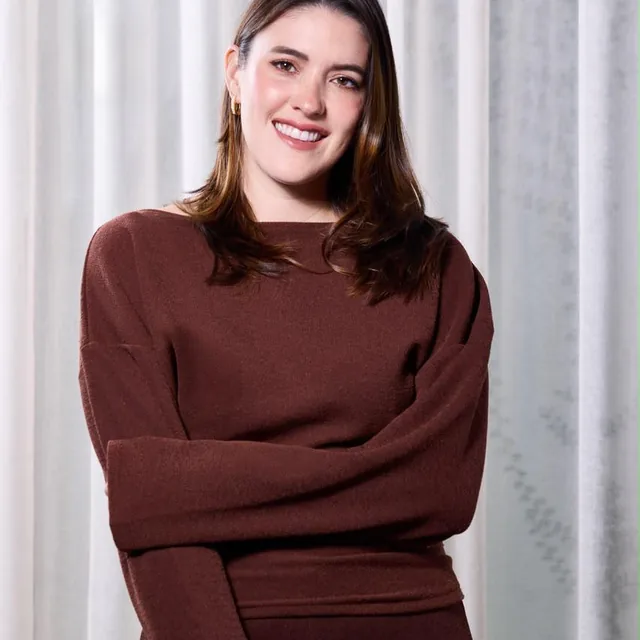
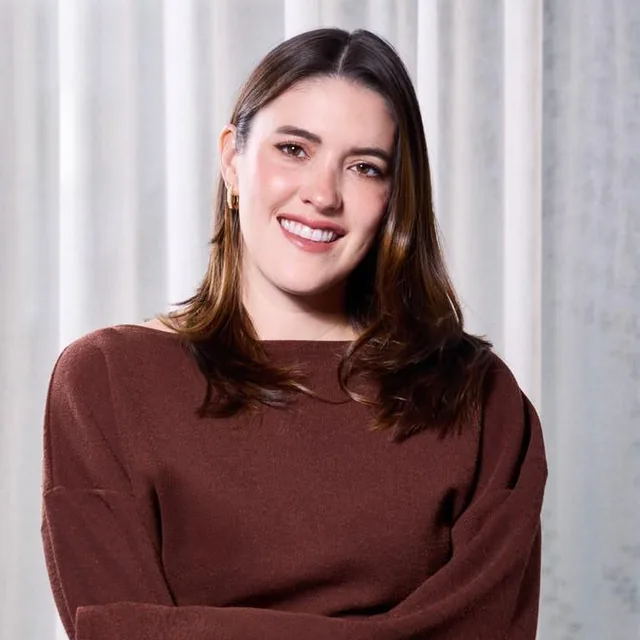
Video lightbox con play centrado + re-encuadre facial de fotos de instructores

diff --git a/components/VideoLightbox.tsx b/components/VideoLightbox.tsx
@@ -1,0 +1,104 @@
+"use client";
+
+import Image from "next/image";
+import { useRef } from "react";
+import { VIDEO_PRESENTACION_URL } from "@/lib/media";
+import poster from "@/public/video-poster.webp";
+
+/**
+ * Miniatura con play grande → modal (<dialog> nativo) con el video
+ * en grande, overlay oscuro, controles, cierre con ×, Esc y click fuera.
+ */
+export default function VideoLightbox() {
+  const dialogRef = useRef<HTMLDialogElement>(null);
+  const videoRef = useRef<HTMLVideoElement>(null);
+
+  const open = () => {
+    dialogRef.current?.showModal();
+    document.documentElement.style.overflow = "hidden";
+    videoRef.current?.play().catch(() => {});
+  };
+  const close = () => {
+    videoRef.current?.pause();
+    dialogRef.current?.close();
+  };
+
+  return (
+    <>
+      {/* Miniatura: poster + botón de play */}
+      <button
+        type="button"
+        onClick={open}
+        data-cursor="purple"
+        aria-haspopup="dialog"
+        aria-label="Reproducir video de presentación"
+        className="group relative block w-full rounded-lg border-2 border-canvas overflow-hidden bg-ink text-left"
+      >
+        <Image
+          src={poster}
+          alt=""
+          className="w-full aspect-video object-cover"
+          sizes="(max-width: 1024px) 92vw, 54vw"
+        />
+        <span className="absolute inset-0 bg-ink/10 group-hover:bg-ink/20 transition-colors" />
+        <span className="btn-hard absolute left-1/2 top-1/2 -translate-x-1/2 -translate-y-1/2 size-[84px] rounded-full bg-canvas flex items-center justify-center shadow-[0_12px_30px_rgba(0,0,0,0.35)]">
+          <svg
+            width="22"
+            height="28"
+            viewBox="0 0 22 28"
+            fill="#1c1a17"
+            aria-hidden="true"
+          >
+            <path d="M0 0L22 14L0 28Z" />
+          </svg>
+        </span>
+      </button>
+
+      {/* Lightbox */}
+      <dialog
+        ref={dialogRef}
+        onClose={() => {
+          videoRef.current?.pause();
+          document.documentElement.style.overflow = "";
+        }}
+        onClick={(e) => {
+          if (e.target === dialogRef.current) close();
+        }}
+        aria-label="Video de presentación de The Creator Playbook"
+        className="m-auto w-[min(92vw,1080px)] bg-transparent p-0 backdrop:bg-ink/80 backdrop:backdrop-blur-sm"
+      >
+        <div className="relative">
+          <video
+            ref={videoRef}
+            controls
+            playsInline
+            preload="none"
+            src={VIDEO_PRESENTACION_URL}
+            className="w-full aspect-video rounded-xl border-2 border-canvas bg-ink"
+          />
+          <button
+            type="button"
+            onClick={close}
+            aria-label="Cerrar video"
+            className="btn-hard absolute -top-4 -right-4 size-11 rounded-full bg-butter text-ink border-2 border-ink flex items-center justify-center shadow-[3px_3px_0_0_#1c1a17]"
+          >
+            <svg
+              width="14"
+              height="14"
+              viewBox="0 0 14 14"
+              fill="none"
+              aria-hidden="true"
+            >
+              <path
+                d="M2 2L12 12M12 2L2 12"
+                stroke="currentColor"
+                strokeWidth="2.4"
+                strokeLinecap="round"
+              />
+            </svg>
+          </button>
+        </div>
+      </dialog>
+    </>
+  );
+}

diff --git a/components/sections/VideoBand.tsx b/components/sections/VideoBand.tsx
@@ -1,4 +1,4 @@
-import { VIDEO_PRESENTACION_URL, VIDEO_POSTER } from "@/lib/media";
+import VideoLightbox from "@/components/VideoLightbox";
 
 export default function VideoBand() {
   return (
@@ -9,22 +9,8 @@ export default function VideoBand() {
       aria-label="Presentación del curso"
     >
       <div className="flex flex-col lg:flex-row items-center gap-12">
-        <div
-          data-reveal
-          data-cursor="purple"
-          className="relative w-full lg:w-[54%] shrink-0 rounded-lg border-2 border-canvas overflow-hidden bg-ink"
-        >
-          {/* preload="none": no descarga nada hasta que el usuario da play;
-              el poster local pinta la miniatura al instante */}
-          <video
-            controls
-            playsInline
-            preload="none"
-            poster={VIDEO_POSTER}
-            src={VIDEO_PRESENTACION_URL}
-            className="w-full aspect-video object-cover"
-            aria-label="Video de presentación de The Creator Playbook"
-          />
+        <div data-reveal className="relative w-full lg:w-[54%] shrink-0">
+          <VideoLightbox />
         </div>
 
         <div className="flex flex-col gap-4.5">
